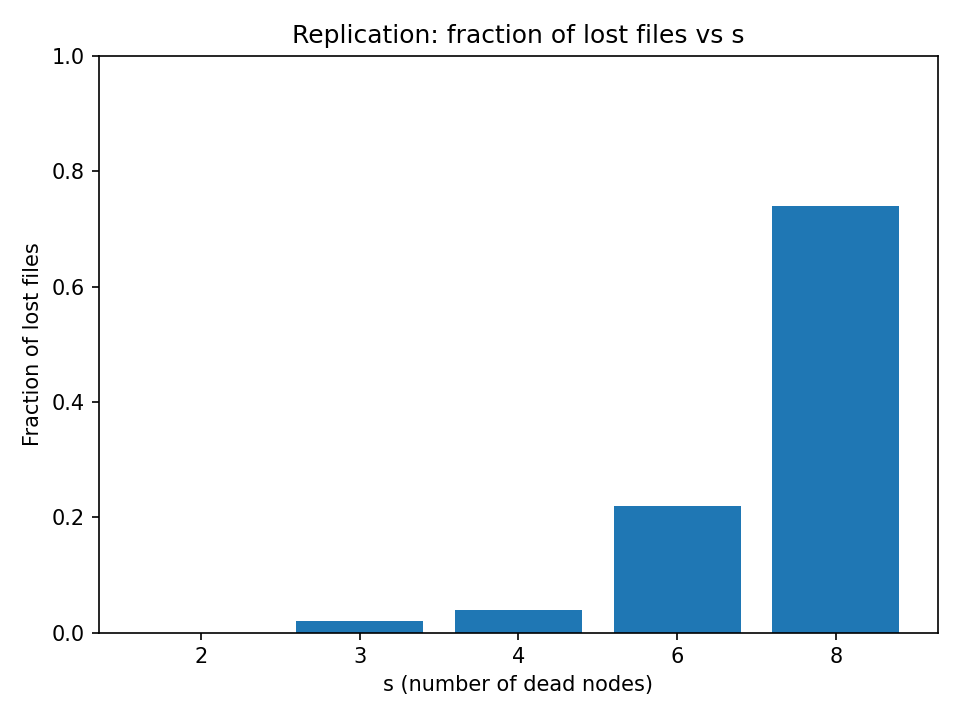
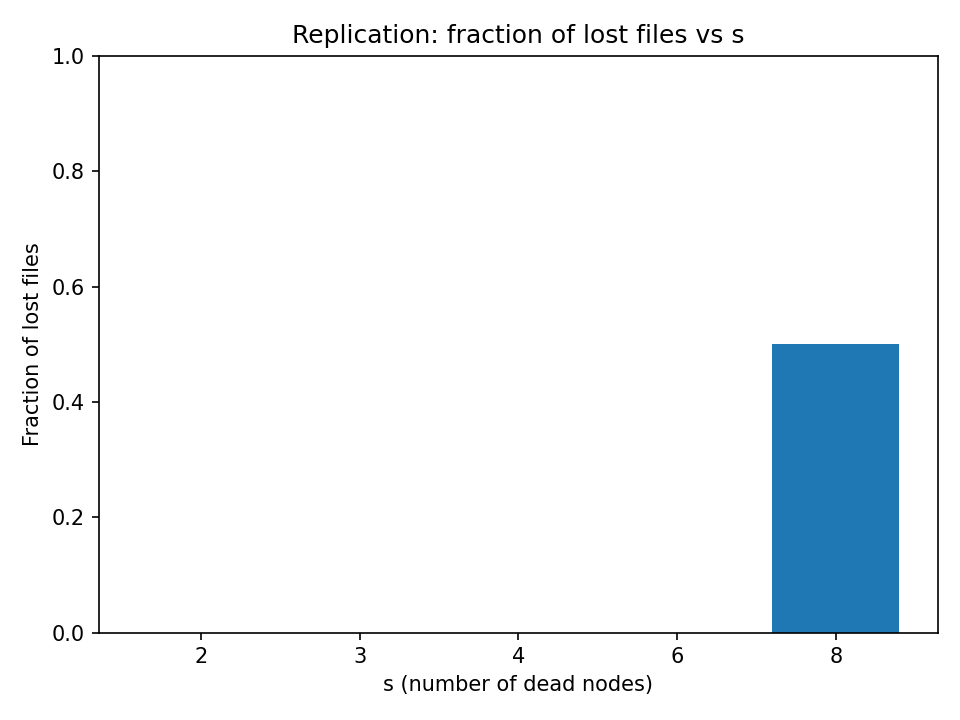
update placement methods

Changed region(s): [[0.4688, 0.7028, 0.7812, 0.8861], [0.7812, 0.275, 0.9375, 0.4889], [0.3125, 0.8556, 0.4375, 0.8861]]

diff --git a/placement.py b/placement.py
@@ -1,0 +1,131 @@
+import random
+from itertools import combinations
+from typing import List, Dict
+
+from config import PlacementStrategy
+from config import BUDDY_GROUP_SIZE
+from typing import Optional
+
+class MinCopysetManager:
+    """
+    Maintains a reduced set of copysets (size-k combinations)
+    used for MIN_COPYSETS placement.
+    """
+
+    def __init__(self, node_ids: List[int], replica_count: int, num_copysets: Optional[int] = None):
+        self.node_ids = list(node_ids)
+        self.replica_count = replica_count
+
+        all_combos = list(combinations(node_ids, replica_count))
+
+        if num_copysets is None:
+            num_copysets = min(len(all_combos), 2 * len(node_ids))
+
+        self.copysets = random.sample(all_combos, num_copysets)
+
+    def choose_copyset(self) -> List[int]:
+        return list(random.choice(self.copysets))
+
+
+def choose_random_nodes(replica_count: int, node_ids: List[int]) -> List[int]:
+    """
+    RANDOM placement: choose k distinct nodes uniformly at random.
+    """
+    return random.sample(node_ids, replica_count)
+
+
+def _partition_into_buddy_groups(node_ids: List[int], group_size: int) -> List[List[int]]:
+    """
+    Partition sorted node_ids into contiguous buddy groups.
+
+    Example: node_ids = [0,1,2,3,4,5,6,7], group_size = 3
+      -> [[0,1,2], [3,4,5], [6,7]]
+    """
+    sorted_ids = sorted(node_ids)
+    return [
+        sorted_ids[i:i + group_size]
+        for i in range(0, len(sorted_ids), group_size)
+    ]
+
+
+def choose_buddy_nodes(
+    file_id: str,
+    fragment_idx: int,
+    replica_count: int,
+    node_ids: List[int],
+    group_size: Optional[int] = None,
+) -> List[int]:
+    """
+    Facebook-style Buddy Group placement:
+      - Groups nodes in fixed-size groups
+      - Select a random group
+      - Replicas are placed inside that group
+
+    group_size priority:
+        1. Explicit argument (override)
+        2. dsm.config.BUDDY_GROUP_SIZE setting
+        3. Automatic based on replica_count and cluster size
+    """
+    all_nodes = sorted(node_ids)
+
+    # ========== Select Group Size ==========
+    if group_size is not None:
+        final_group_size = group_size
+    elif BUDDY_GROUP_SIZE is not None:
+        final_group_size = BUDDY_GROUP_SIZE
+    else:
+        # Automatic fallback:
+        # - at least k
+        # - try to form ~3 or more groups if possible
+        N = len(all_nodes)
+        final_group_size = max(replica_count, max(3, N // 3))
+
+    buddy_groups = _partition_into_buddy_groups(all_nodes, final_group_size)
+    valid_groups = [g for g in buddy_groups if len(g) >= replica_count]
+
+    if not valid_groups:
+        # safety fallback → RANDOM
+        return choose_random_nodes(replica_count, all_nodes)
+
+    group = random.choice(valid_groups)
+    return random.sample(group, replica_count)
+
+
+class StrategySelector:
+    """
+    Central interface:
+      - RANDOM placement
+      - MIN_COPYSETS placement
+      - BUDDY GROUP placement (Facebook-style buddy groups)
+    """
+
+    def __init__(self, node_ids: List[int]):
+        self.node_ids = node_ids
+        self.copyset_managers: Dict[int, MinCopysetManager] = {}
+
+    def select_nodes(
+        self,
+        file_id: str,
+        fragment_idx: int,
+        k: int,
+        strategy: PlacementStrategy,
+    ) -> List[int]:
+        if strategy == PlacementStrategy.RANDOM:
+            return choose_random_nodes(k, self.node_ids)
+
+        if strategy == PlacementStrategy.MIN_COPYSETS:
+            if k not in self.copyset_managers:
+                self.copyset_managers[k] = MinCopysetManager(self.node_ids, k)
+            return self.copyset_managers[k].choose_copyset()
+
+        if strategy == PlacementStrategy.BUDDY:
+            # Buddy *group* placement: choose group, then nodes within that group.
+            return choose_buddy_nodes(
+                file_id=file_id,
+                fragment_idx=fragment_idx,
+                replica_count=k,
+                node_ids=self.node_ids,
+                group_size=None,  # or set a fixed group size here if you prefer
+            )
+
+        raise ValueError(f"Unknown placement strategy: {strategy}")

diff --git a/rest-server.py b/rest-server.py
@@ -14,7 +14,9 @@ import messages_pb2 # Generated Protobuf messages
 import io # For sending binary data in a HTTP response
 import os
 import csv
-from config_selection import select_nodes
+from placement import StrategySelector
+from config import PlacementStrategy
+
 
 # ---------------- Configuration ----------------
 K_REPLICAS = int(os.getenv("K_REPLICAS", "3"))  # k full replicas
@@ -23,6 +25,9 @@ MEAS_FILE = "measure.csv"
 NODE_NAMES = os.getenv("NODE_NAMES", "node1,node2,node3,node4")
 NODE_NAMES = [n.strip() for n in NODE_NAMES.split(",") if n.strip()]
 NODES_STATE = [{"name": name, "copies": 0} for name in NODE_NAMES]
+NODE_IDS = list(range(len(NODE_NAMES)))
+PLACEMENT_STRATEGY = PlacementStrategy(PLACEMENT_MODE)
+selector = StrategySelector(NODE_IDS)
 HEARTBEAT_TIMEOUT = float(os.getenv("HEARTBEAT_TIMEOUT", "5")) 
 NODE_LAST_SEEN = {name: time.time() for name in NODE_NAMES}
 
@@ -111,30 +116,6 @@ def get_node_status():
     live = [name for name in NODE_LAST_SEEN.keys() if name not in dead]
     return live, dead
 
-
-# def select_nodes(strategy, k, nodes):
-#     """
-#     nodes list format:
-#     [
-#       {"name":"node1","copies":10,"endpoint":"tcp://127.0.0.1:6001"},
-#       {"name":"node2","copies":8,"endpoint":"tcp://127.0.0.1:6002"},
-#       ...
-#     ]
-#     """
-#     if strategy == "random":
-#         return random.sample(nodes, k)
-
-#     elif strategy == "mincopy":
-#         sorted_nodes = sorted(
-#             nodes,
-#             key=lambda n: (n.get("copies", 0), random.random())
-#         )
-#         return sorted_nodes[:k]
-
-#     elif strategy == "buddy":
-#         pass
-
-#
 
 # Initiate ZMQ sockets
 context = zmq.Context()
@@ -362,16 +343,23 @@ def add_files():
         print(f"Filenames for part {idx+1}: {names}")
 
         # Select nodes for this fragment according to placement strategy
-        selected_nodes = select_nodes(PLACEMENT_MODE, K_REPLICAS, NODES_STATE)
-        node_names_for_fragment = [node["name"] for node in selected_nodes]
+        selected_nodes = selector.select_nodes(
+            file_id=filename,       
+            fragment_idx=idx,
+            k=K_REPLICAS,
+            strategy=PLACEMENT_STRATEGY,
+        )
+
+        node_names_for_fragment = [NODE_NAMES[nid] for nid in selected_nodes]
+
         fragment_nodes_lists.append(node_names_for_fragment)
         print(f"Filenames for part {idx+1}: {names}")
         print(f"Nodes for part {idx+1}: {node_names_for_fragment}")
 
         # Send each replica to its selected node
-        for name, node in zip(names, selected_nodes):
-            node_name = node["name"]
-            node["copies"] += 1  # update placement statistics
+        for name, node_id in zip(names, selected_nodes):
+            node_name = NODE_NAMES[node_id]
+            NODES_STATE[node_id]["copies"] += 1        # update placement statistics
 
             task = messages_pb2.storedata_request()
             task.filename = name

diff --git a/config.py b/config.py
@@ -1,0 +1,11 @@
+from enum import Enum
+
+NUM_FRAGMENTS = 4  # Required: file split into 4 fragments
+
+
+class PlacementStrategy(str, Enum):
+    RANDOM = "random"
+    MIN_COPYSETS = "min_copysets"
+    BUDDY = "buddy"
+
+BUDDY_GROUP_SIZE = None
